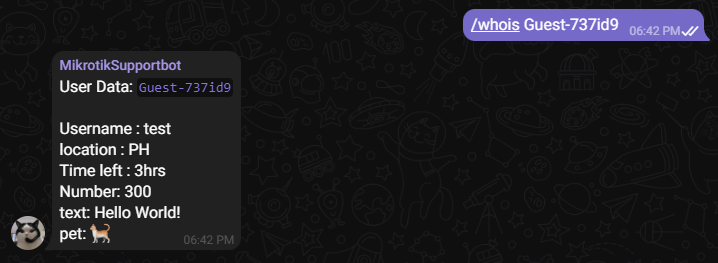
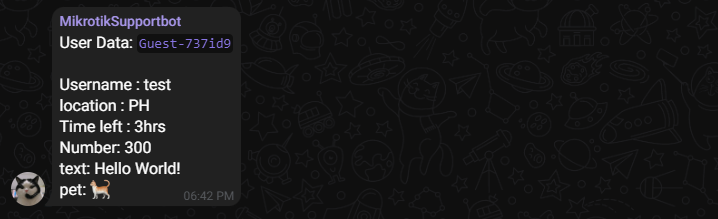
fixed the command "/user" bug

diff --git a/server.js b/server.js
@@ -6,7 +6,7 @@ const bodyParser = require('body-parser');
 const app = express();
 const http = require('http').Server(app);
 const io = require('socket.io')(http);
-const serverLink = process.env.SERVER_LINK;
+const serverLink = 'https://mikrotik-support.kentoyyyyyyy.repl.co';
 
 app.use(express.static('dist'));
 app.use(bodyParser.json());
@@ -77,7 +77,7 @@ app.post('/hook', function (req, res) {
 				'	"vlan" : "$(vlan-id)"\n' +
 				'};\n' +
 				'</script>\n' +
-				'<script id="intergram" type="text/javascript" src="https://mikrotik-support.kentoyyyyyyy.repl.co/js/widget.js"></script>\n' +
+				'<script id="intergram" type="text/javascript" src="' + serverLink + '/js/widget.js"></script>\n' +
 				'```\n' +
 				'3. *Done*\n\n' +
 				'for more details: [Kintoyyy/Telegram-Chat-Widget](https://github.com/Kintoyyy/Telegram-Chat-Widget)\n\n' +
@@ -188,14 +188,14 @@ app.post('/hook', function (req, res) {
 			const user = users.find(user => user.userId === userId && user.chatId === chatId);
 
 			if (user) {
-				const { CustomData } = user;
-				console.log(CustomData);
-				if (CustomData) {
-					const CustomMsg = `User Data: \`${userId}\`\n\n${Object.entries(CustomData).map(([label, value]) => label + ': ' + value).join('\n')}`;
-					sendTelegramMessage(chatId, CustomMsg, 'Markdown');
-				} else {
-					sendTelegramMessage(chatId, 'No data for user', 'Markdown');
-				}
+
+				const CustomData = user.CustomData || {};
+				const username = user.CustomData.username || userId;
+				const CustomMsg = `username : \`${username}\`\n\n${Object.entries(CustomData).map(([label, value]) => `${label.trim()} : \`${value.trim()}\``).join('\n')}`;
+
+				sendTelegramMessage(chatId, CustomMsg, 'Markdown');
+
+
 			} else {
 				sendTelegramMessage(chatId, 'User not found', 'Markdown');
 			}
@@ -236,16 +236,13 @@ io.on('connection', function (client) {
 		const chatId = parseInt(registerMsg.chatId);
 		const CustomData = registerMsg.CustomData;
 
-
-
-
 		console.log('useId ' + userId + ' connected to chatId ' + chatId);
 
 		const CustomMsg = `\`${userId}\` *connected to chat* 😶🌫\n\n`;
 		let CustomMsgData = '';
 
 		if (CustomData) {
-			CustomMsgData = `*User data:*\n${Object.entries(CustomData).map(([label, value]) => `${label}: ${value}`).join('\n')}`;
+			CustomMsgData = `${Object.entries(CustomData).map(([label, value]) => `${label}: ${value}`).join('\n')}`;
 		}
 
 		sendTelegramMessage(chatId, `${CustomMsg}${CustomMsgData}`, 'Markdown', true);
@@ -274,8 +271,6 @@ io.on('connection', function (client) {
 				return;
 			}
 			io.emit(chatId + '-' + userId, msg);
-
-			console.log(registerMsg)
 
 			if (msg.text === '/help') {
 				io.emit(chatId + '-' + userId, {
@@ -334,6 +329,9 @@ function sendTelegramMessage(chatId, text, parseMode, disableNotification) {
 			'text': text,
 			'parse_mode': parseMode,
 			'disable_notification': !!disableNotification,
+		})
+		.on('response', function (response) {
+			console.log('telegram status code:', response.statusCode);
 		});
 }
 
@@ -361,6 +359,12 @@ app.post('/usage-start', function (req, res) {
 app.post('/usage-end', function (req, res) {
 	res.statusCode = 200;
 	res.end();
+});
+
+app.get('/status', function (req, res) {
+	console.log({ 'ping': 'ok' })
+	res.statusCode = 200;
+	res.send({ 'status': 'ok' });
 });
 
 http.listen(process.env.PORT || 3000, function () {

diff --git a/README.md b/README.md
@@ -101,7 +101,7 @@ window.CustomData = {
 *admins telegram*
 <p align="center"> <img src="docs/HsDataExample.png"/> </p>
 
-> the admin the see the users detailss
+> the admin the see the users details
 </details>
 
 ---
